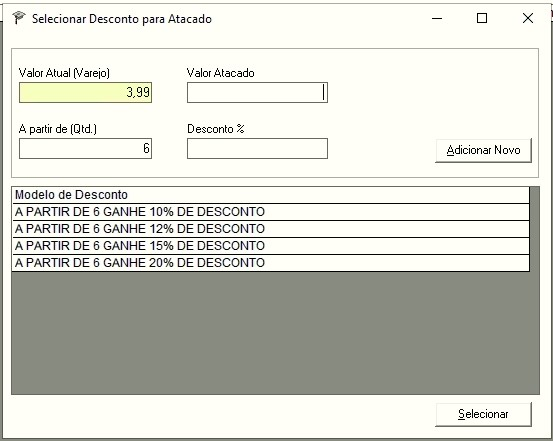
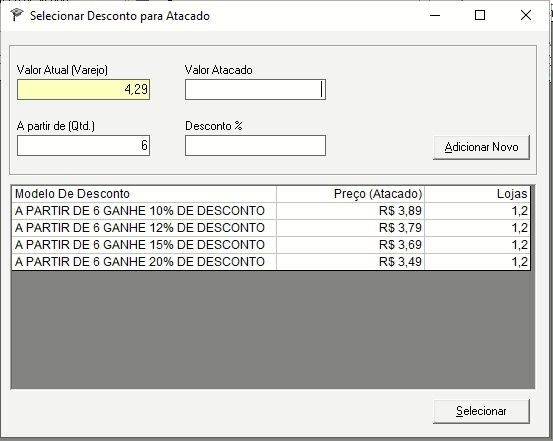
fim análise controle de entradas

diff --git a/Analise_24_Maio_2021_AtacadoWeb.md b/Analise_24_Maio_2021_AtacadoWeb.md
@@ -68,14 +68,6 @@
 
 ---
 
-## Busca no combo
-
-1. O usuário poderá digitar no combo para buscar o pack
-
-![](https://github.com/Rodrigo80221/AnalisesDeSoftware/blob/main/Imagens/AtacadoWEB/COMBO4jpg.jpg?raw=true)
-
----
-
 ## Criar a opção `Novo` no combo
 
 1. Caso o usuário não encontre um pack desejado deverá escolher a opção `Novo`
@@ -87,10 +79,6 @@
 
 ## Opção `Novo` no combo ou clique na coluna `Preço Venda`
 
-> Neste momento o usuário já buscou pela descrição ou clicou no `Preço Venda`
-
-> Possívelmente o usuário deseja apenas alterar o `Preço Venda`
-
 1. Será exibida a tela de busca
 1. A tela deverá vir carregada com os dados atuais do produto
 
@@ -100,17 +88,17 @@
 
     > aqui teremos que tentar usar o arredondamento para tirar a quebra do percentual
 
-1. Caso o usuário altere o campo `Desconto %` o campo `Valor Atacado` deverá ser recalculado de acordo com a regra de arredondamento
+1. Caso o usuário altere o campo `Desconto %` o campo `Valor Atacado` deverá ser recalculado de acordo com a regra de arredondamento configurado nas configurações
 
-1. A cada alteração o grid deverá buscar os respectivos packs    
+1. A cada alteração o grid deverá buscar os respectivos packs de acordo com a quantidade e porcentagem    
+
+1. O grid deve exibir a coluna `Preço Atacado` que deverá ser calculada com o valor atual + porcentagem do pack + arredondamento do pack. O arredondamento do pack pode ser visto na tela Desconto Atacado.
 
     ![](https://github.com/Rodrigo80221/AnalisesDeSoftware/blob/main/Imagens/AtacadoWEB/Selecionar1.jpg?raw=true)
 
-1. Se colocar o mouse em uma linha mostrar um tooltip com o Valor de Atacado
-
 1. Se o usuário der duplo clique em uma linha do grid ou selecionar um modelo volta para o controle de entradas
 
-> O packs buscados sempre terão que estar na mesma regra de arredondamento da tela de controle de entradas, senão o resultado final ficará errado.
+
 ---
 
 ## Botão `Adicionar Novo`
@@ -126,7 +114,8 @@
     ![](https://github.com/Rodrigo80221/AnalisesDeSoftware/blob/main/Imagens/AtacadoWEB/Selecionar4.jpg?raw=true)
 
 1. Após confirmado já voltará para a tela do controle de entradas.
-1. O pack já será criado no banco com as regras, descrição e configurações de arredondamento
+1. O pack já será criado no banco com as regras, descrição e configurações de arredondamento;
+    * A regra de arredondamento e as lojas estão nas configurações da tela.
 
 > Validar porcentagem entre 0 e 99%
 ---
@@ -158,12 +147,12 @@
     
 ## Botão `Aplicar Valores`    
 
-1. Neste momento iremos colocar o produto no respectivo pack
+1. Neste momento iremos colocar o produto no respectivo pack não importando as lojas selecionadas.
 ---
 
 ## Produtos associados
 
-> Adicionar os produtos associados no pack?
+1. No final iremos mostrar a tela de produtos associados para verificar se o cliente deseja inserir a promoção nos outros produtos.
 
 ![](https://github.com/Rodrigo80221/AnalisesDeSoftware/blob/main/Imagens/AtacadoWEB/ProdutosAssociados.jpg?raw=true)
 
@@ -178,6 +167,15 @@ Item que está na promoção não deverá sofrer alteração percentual no preç
  * Tratar no PDV 
 
 
+Modelos que não devem ser ignorados por promoção
+
+CodPack = 2 
+Compre 2 unidades da Pizza XXX e ganhe um bombom da marca YYY.
+Compre 2 unidades da Pizza XXX e pague R$5,00 no refrigerante 2 litros
+
+CodPack = 7
+CodPack = 6
+Compre 2 Pizzas XXX e ganhe desconto de R$ 3,00 no refrigerante YYY.
 
 
 
